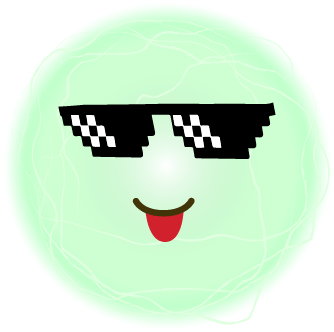
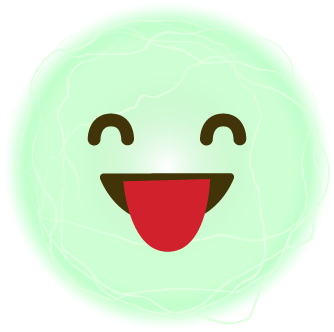
Finish endgame apperance

Changed region(s): [[0.1796, 0.3012, 0.8383, 0.4819], [0.2994, 0.512, 0.7186, 0.7831]]

diff --git a/View/staticobjects.py b/View/staticobjects.py
@@ -88,48 +88,52 @@ class View_endgame(__Object_base):
         'medal_second': scaled_surface(load_image(os.path.join(Const.IMAGE_PATH, 'endgame', 'second.png')), 0.24),
         'medal_third': scaled_surface(load_image(os.path.join(Const.IMAGE_PATH, 'endgame', 'third.png')), 0.24),
         'emoji_blue_first':
-         scaled_surface(load_image(os.path.join(Const.IMAGE_PATH, 'ball_emoticon_blue_first.png')), 0.4),
+         scaled_surface(load_image(os.path.join(Const.IMAGE_PATH, 'ball_emoticon_blue_first.png')), 0.3),
         'emoji_blue_second':
-        scaled_surface(load_image(os.path.join(Const.IMAGE_PATH, 'ball_emoticon_blue_second.png')), 0.4),
+        scaled_surface(load_image(os.path.join(Const.IMAGE_PATH, 'ball_emoticon_blue_second.png')), 0.3),
         'emoji_blue_third':
-        scaled_surface(load_image(os.path.join(Const.IMAGE_PATH, 'ball_emoticon_blue_third.png')), 0.4),
+        scaled_surface(load_image(os.path.join(Const.IMAGE_PATH, 'ball_emoticon_blue_third.png')), 0.3),
         'emoji_blue_fourth':
-        scaled_surface(load_image(os.path.join(Const.IMAGE_PATH, 'ball_emoticon_blue_fourth.png')), 0.4),
+        scaled_surface(load_image(os.path.join(Const.IMAGE_PATH, 'ball_emoticon_blue_fourth.png')), 0.3),
         'emoji_green_first':
-        scaled_surface(load_image(os.path.join(Const.IMAGE_PATH, 'ball_emoticon_green_first.png')), 0.4),
+        scaled_surface(load_image(os.path.join(Const.IMAGE_PATH, 'ball_emoticon_green_first.png')), 0.3),
         'emoji_green_second':
-        scaled_surface(load_image(os.path.join(Const.IMAGE_PATH, 'ball_emoticon_green_second.png')), 0.4),
+        scaled_surface(load_image(os.path.join(Const.IMAGE_PATH, 'ball_emoticon_green_second.png')), 0.3),
         'emoji_green_third':
-        scaled_surface(load_image(os.path.join(Const.IMAGE_PATH, 'ball_emoticon_green_third.png')), 0.4),
+        scaled_surface(load_image(os.path.join(Const.IMAGE_PATH, 'ball_emoticon_green_third.png')), 0.3),
         'emoji_green_fourth':
-        scaled_surface(load_image(os.path.join(Const.IMAGE_PATH, 'ball_emoticon_green_fourth.png')), 0.4),
+        scaled_surface(load_image(os.path.join(Const.IMAGE_PATH, 'ball_emoticon_green_fourth.png')), 0.3),
         'emoji_purple_first':
-        scaled_surface(load_image(os.path.join(Const.IMAGE_PATH, 'ball_emoticon_purple_first.png')), 0.4),
+        scaled_surface(load_image(os.path.join(Const.IMAGE_PATH, 'ball_emoticon_purple_first.png')), 0.3),
         'emoji_purple_second':
-        scaled_surface(load_image(os.path.join(Const.IMAGE_PATH, 'ball_emoticon_purple_second.png')), 0.4),
+        scaled_surface(load_image(os.path.join(Const.IMAGE_PATH, 'ball_emoticon_purple_second.png')), 0.3),
         'emoji_purple_third':
-        scaled_surface(load_image(os.path.join(Const.IMAGE_PATH, 'ball_emoticon_purple_third.png')), 0.4),
+        scaled_surface(load_image(os.path.join(Const.IMAGE_PATH, 'ball_emoticon_purple_third.png')), 0.3),
         'emoji_purple_fourth':
-        scaled_surface(load_image(os.path.join(Const.IMAGE_PATH, 'ball_emoticon_purple_fourth.png')), 0.4),
+        scaled_surface(load_image(os.path.join(Const.IMAGE_PATH, 'ball_emoticon_purple_fourth.png')), 0.3),
         'emoji_yellow_first':
-        scaled_surface(load_image(os.path.join(Const.IMAGE_PATH, 'ball_emoticon_yellow_first.png')), 0.4),
+        scaled_surface(load_image(os.path.join(Const.IMAGE_PATH, 'ball_emoticon_yellow_first.png')), 0.3),
         'emoji_yellow_second':
-        scaled_surface(load_image(os.path.join(Const.IMAGE_PATH, 'ball_emoticon_yellow_second.png')), 0.4),
+        scaled_surface(load_image(os.path.join(Const.IMAGE_PATH, 'ball_emoticon_yellow_second.png')), 0.3),
         'emoji_yellow_third':
-        scaled_surface(load_image(os.path.join(Const.IMAGE_PATH, 'ball_emoticon_yellow_third.png')), 0.4),
+        scaled_surface(load_image(os.path.join(Const.IMAGE_PATH, 'ball_emoticon_yellow_third.png')), 0.3),
         'emoji_yellow_fourth':
-        scaled_surface(load_image(os.path.join(Const.IMAGE_PATH, 'ball_emoticon_yellow_fourth.png')), 0.4),
+        scaled_surface(load_image(os.path.join(Const.IMAGE_PATH, 'ball_emoticon_yellow_fourth.png')), 0.3),
+        'cross':
+        scaled_surface(load_image(os.path.join(Const.IMAGE_PATH, 'cross.png')), 0.24),
         }
 
     @classmethod
     def init_convert(cls):
         cls.font = pg.font.Font(os.path.join(Const.FONT_PATH, 'bitter', 'Bitter-Bold.ttf'), 28)
-        cls.score_font = pg.font.Font(os.path.join(Const.FONT_PATH, 'bitter', 'Bitter-Bold.ttf'), 22)
+        cls.score_font = pg.font.Font(os.path.join(Const.FONT_PATH, 'bitter', 'Bitter-Bold.ttf'), 36)
+        cls.small_score_font = pg.font.Font(os.path.join(Const.FONT_PATH, 'bitter', 'Bitter-Bold.ttf'), 14)
+        cls.score_list_text = MutableText(cls.small_score_font, pg.Color('white'))
         cls.name_text = []
         cls.score_text = []
         for player_id in range(4):
-            cls.name_text.append(MutableText(1, cls.font, pg.Color('white'), center=(600 + (player_id - 1.5) * 200, 390)))
-            cls.score_text.append(MutableText(1, cls.score_font, pg.Color('white'), center=(600 + (player_id - 1.5) * 200, 430)))
+            cls.name_text.append(MutableText(cls.font, pg.Color('white')))
+            cls.score_text.append(MutableText(cls.score_font, pg.Color('white')))
 
 
     def draw(self, screen):
@@ -138,10 +142,10 @@ class View_endgame(__Object_base):
 
         for player_id in range(4):
             # draw player name
-            self.name_text[player_id].draw(self.model.players[player_id].player_name, screen)
+            self.name_text[player_id].draw(self.model.players[player_id].player_name, screen, center=(Const.WINDOW_SIZE[0] / 2 - (player_id - 1.5) * 252, 345))
 
             # draw player score
-            self.score_text[player_id].draw(f"{self.model.players[player_id].score}", screen)
+            self.score_text[player_id].draw(f"{self.model.players[player_id].score}", screen, center=(Const.WINDOW_SIZE[0] / 2 - (player_id - 1.5) * 252, 600))
 
             #draw player ball
 
@@ -184,9 +188,10 @@ class View_endgame(__Object_base):
                     ball_surface = self.images['emoji_purple_fourth']
                 elif player_id == 3:
                     ball_surface = self.images['emoji_yellow_fourth']
-
-            ball_rect = ball_surface.get_rect(center=(675 + (player_id - 1.89) * 200, 280))
+            ball_rect = ball_surface.get_rect(center=(Const.WINDOW_SIZE[0] / 2 - (player_id - 1.5) * 252, 260))
             screen.blit(ball_surface, ball_rect)
+
+            # draw medal
 
             if 1 <= self.model.players[player_id].rank and self.model.players[player_id].rank <= 3:
                 if self.model.players[player_id].rank == 1:
@@ -195,8 +200,28 @@ class View_endgame(__Object_base):
                     medal_surface = self.images['medal_second']
                 elif self.model.players[player_id].rank == 3:
                     medal_surface = self.images['medal_third']
-                medal_rect = medal_surface.get_rect(center=(685 + (player_id - 1.5) * 200, 210))
+                medal_rect = medal_surface.get_rect(center=(Const.WINDOW_SIZE[0] / 2 - (player_id - 1.5) * 252 + 75, 210))
                 screen.blit(medal_surface, medal_rect)
+
+            # draw score
+            self.score_list_text.draw_align_right(f"+{self.model.players[player_id].KO_score}", screen, (Const.WINDOW_SIZE[0] / 2 - (player_id - 1.5) * 252 + 89, 403))
+            self.score_list_text.draw_align_right(f"-{-(self.model.players[player_id].die_score)}", screen, (Const.WINDOW_SIZE[0] / 2 - (player_id - 1.5) * 252 + 89, 441))
+            if self.model.players[player_id].just_too_good_score == 0:
+                cross_surface = self.images['cross']
+                cross_rect = cross_surface.get_rect()
+                cross_rect.topright = (Const.WINDOW_SIZE[0] / 2 - (player_id - 1.5) * 252 + 89, 487)
+                screen.blit(cross_surface, cross_rect)
+            else:
+                self.score_list_text.draw_align_right(f"+{self.model.players[player_id].just_too_good_score}", screen, (Const.WINDOW_SIZE[0] / 2 - (player_id - 1.5) * 252 + 89, 482))
+
+            if self.model.players[player_id].just_a_nerd_score == 0:
+                cross_surface = self.images['cross']
+                cross_rect = cross_surface.get_rect()
+                cross_rect.topright = (Const.WINDOW_SIZE[0] / 2 - (player_id - 1.5) * 252 + 89, 525)
+                screen.blit(cross_surface, cross_rect)
+            else:
+                self.score_list_text.draw_align_right(f"+{self.model.players[player_id].just_a_nerd_score}", screen, (Const.WINDOW_SIZE[0] / 2 - (player_id - 1.5) * 252 + 89, 520))
+
 
 class View_players(__Object_base):
     images = tuple(

diff --git a/View/utils.py b/View/utils.py
@@ -17,18 +17,22 @@ class PureText:
 
 
 class MutableText:
-    def __init__(self, size, font, color, **pos):
+    def __init__(self, font, color):
         '''
         pos: refer to the attributes of pg.Rect
         '''
         self.color = color
-        self.size = size
-        self.pos = pos
         self.font = font
 
-    def draw(self, text, screen):
+    def draw(self, text, screen, **pos):
         self.text_surface = self.font.render(text, True, self.color)
-        self.pos_rect = self.text_surface.get_rect(**self.pos)
+        self.pos_rect = self.text_surface.get_rect(**pos)
+        screen.blit(self.text_surface, self.pos_rect)
+
+    def draw_align_right(self, text, screen, pos):
+        self.text_surface = self.font.render(text, True, self.color)
+        self.pos_rect = self.text_surface.get_rect()
+        self.pos_rect.topright = pos
         screen.blit(self.text_surface, self.pos_rect)
 
 
